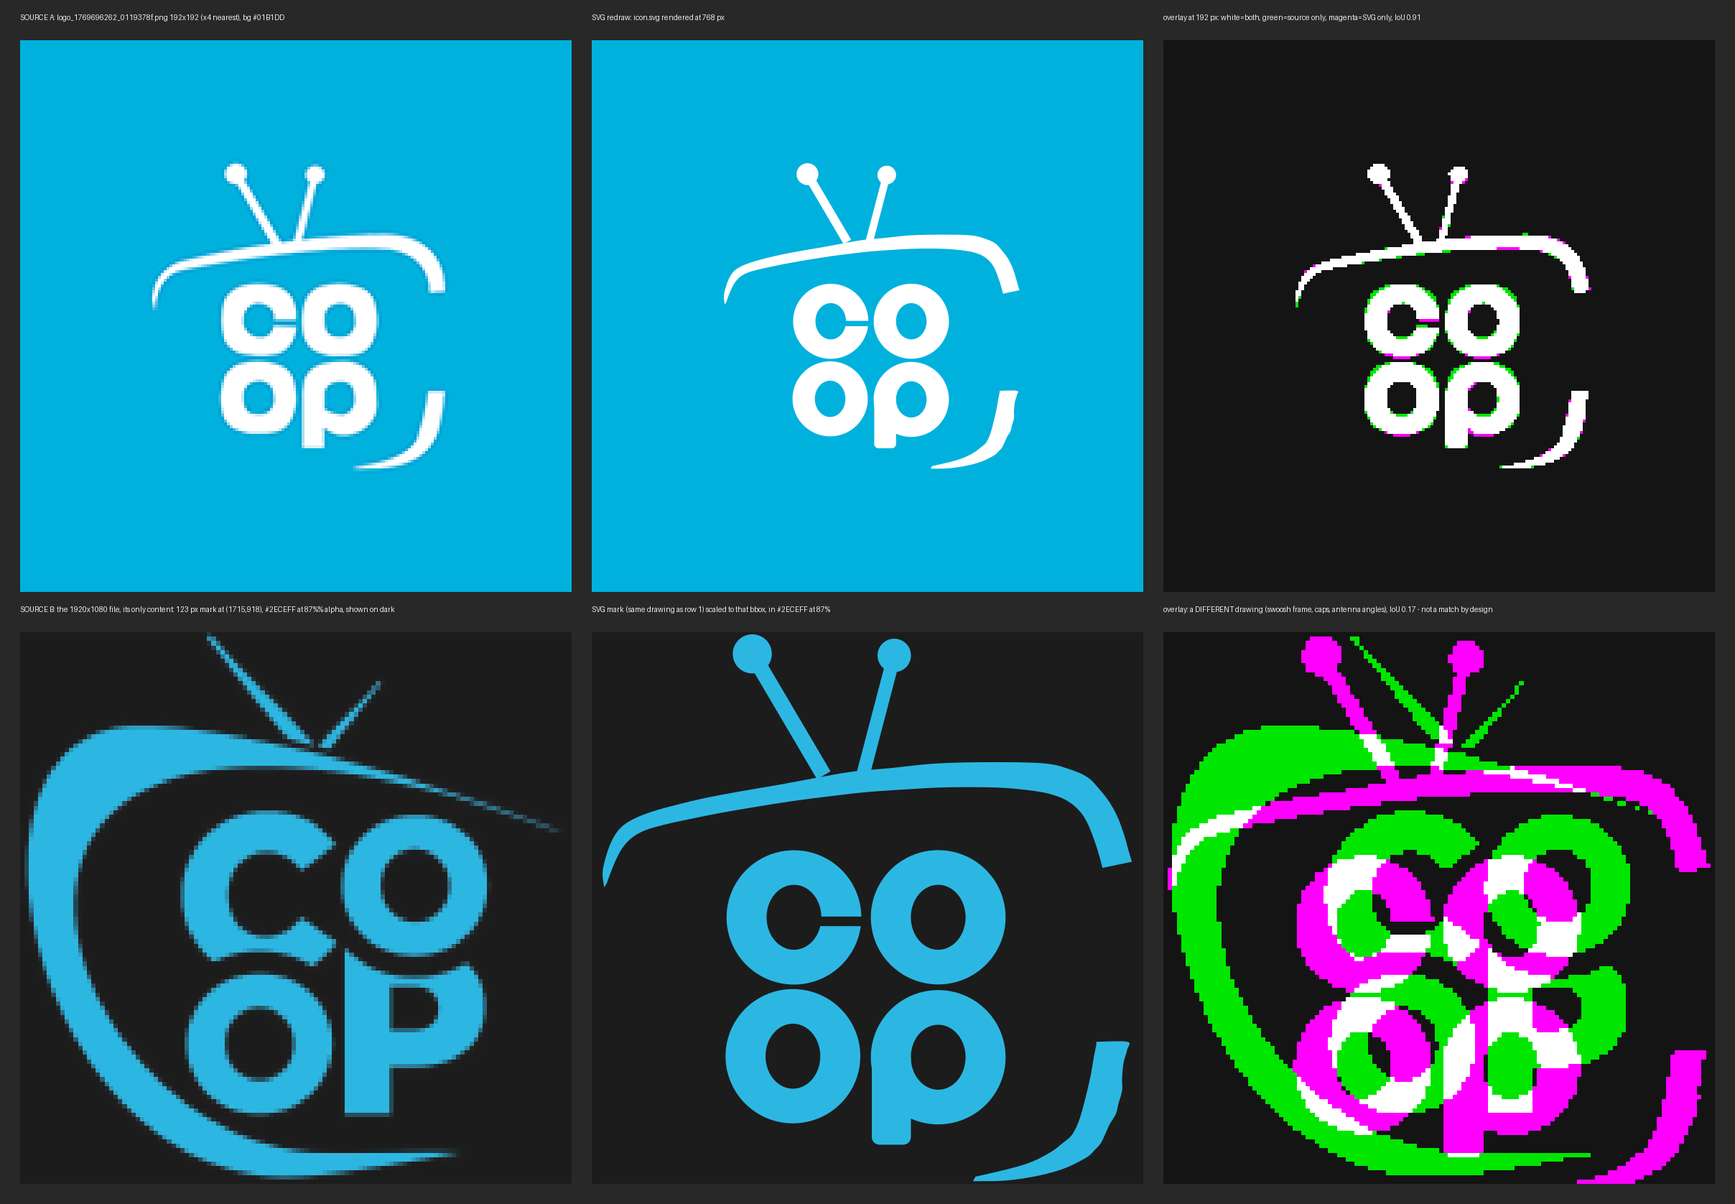
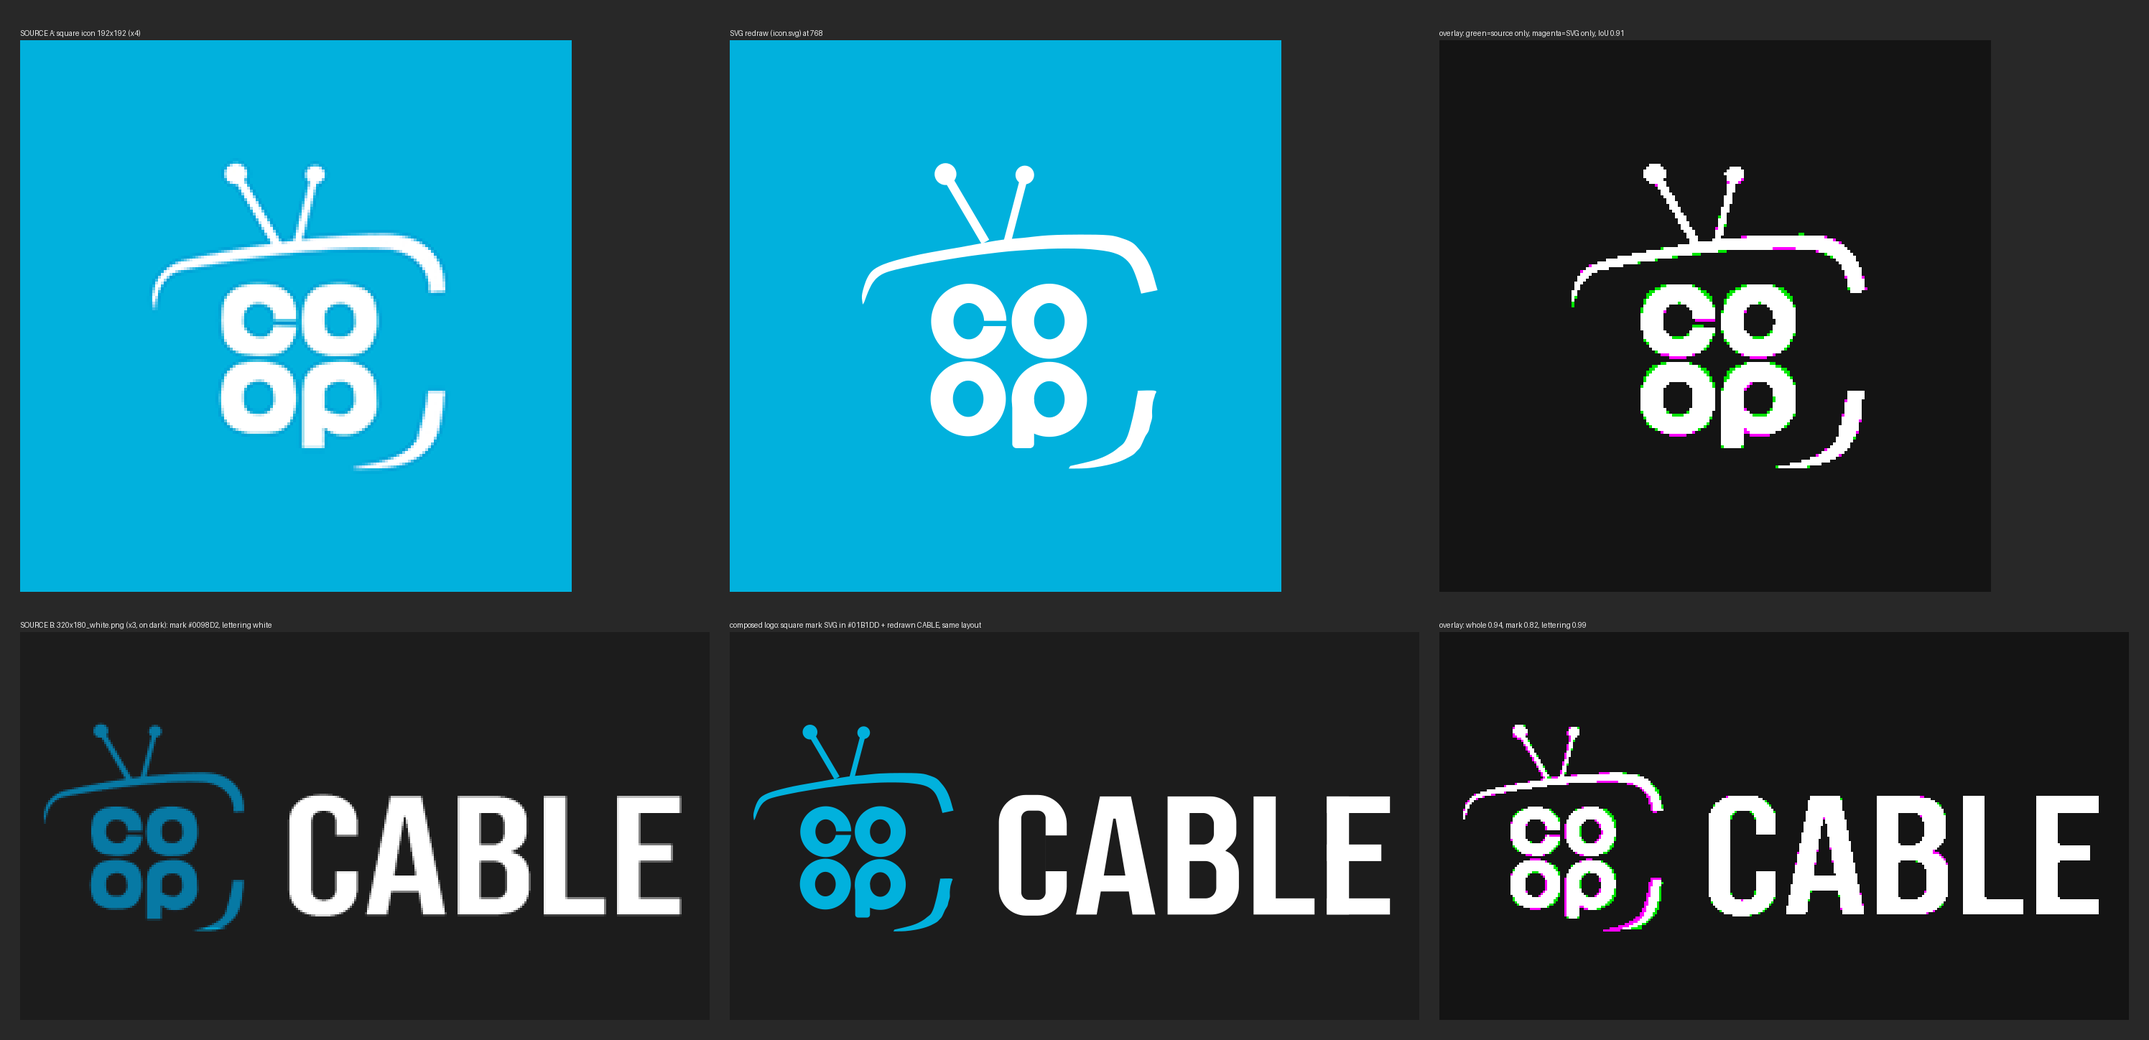
app: coopcable production brand, CABLE lettering redrawn, CI build
New brand app/brands/coopcable (net.caritech.coopcable, "Coop Cable",
primary #01B1DD sampled from the square icon, dark palette of the current
theme, API https://player.caritech.net, HTTPS only, BILLING_UI auto,
legal pages on player.caritech.net). All artwork is rendered from vector
sources: the mark measured from the 192 px icon, the CABLE lettering
measured from the supplied wordmark and rebuilt as paths (no font matched),
composed in the wordmark's layout for logo.png / logo_dark.png, the icon
with the source margins, the adaptive foreground inside the safe circle,
and a splash tile that is seamless on a blue splash screen.

tool/apply_brand.dart gains two optional keys, ICON_BACKGROUND_COLOR and
SPLASH_COLOR (default BACKGROUND_COLOR), so a brand can put its own
colour behind the adaptive icon and the splash. Documented in
WHITE_LABEL.md.

The signing key is generated per brand and kept out of the repo; the
README records alias, subject, fingerprint, retrieval and the CI secret
names. CI builds coopcable as a prod release APK with the other client
brands. Nothing is uploaded to any store.

Claude-Session: https://claude.ai/code/session_01LyHT4QzJGGghnwP1ZDeHK9

diff --git a/app/tool/apply_brand.dart b/app/tool/apply_brand.dart
@@ -12,7 +12,9 @@
 //      LOGO_HAS_NAME (true = the logo carries the brand name, so it is not printed beside it)
 //      logo_dark.png (optional) = logo for dark backgrounds; without it the logo sits on a light plate
 //   4. writes tool/generated/icons.yaml + splash.yaml and runs
-//      flutter_launcher_icons and flutter_native_splash (skip with --no-icons)
+//      flutter_launcher_icons and flutter_native_splash (skip with --no-icons);
+//      ICON_BACKGROUND_COLOR / SPLASH_COLOR (optional) override BACKGROUND_COLOR
+//      for the adaptive icon layer and the splash screen colour
 //   5. sets CFBundleDisplayName in ios/Runner/Info.plist and prints the ATS
 //      snippet for the brand's cleartext hosts
 //
@@ -107,28 +109,29 @@ void main(List<String> args) async {
 
   // 4. icons + splash
   final gen = Directory('$root/tool/generated')..createSync(recursive: true);
-  final bg = _hex(cfg['BACKGROUND_COLOR']!);
+  final iconBg = _hex((cfg['ICON_BACKGROUND_COLOR'] ?? '').trim().isEmpty ? cfg['BACKGROUND_COLOR']! : cfg['ICON_BACKGROUND_COLOR']!);
+  final splashBg = _hex((cfg['SPLASH_COLOR'] ?? '').trim().isEmpty ? cfg['BACKGROUND_COLOR']! : cfg['SPLASH_COLOR']!);
   File('${gen.path}/icons.yaml').writeAsStringSync('''
 flutter_launcher_icons:
   android: true
   ios: true
   remove_alpha_ios: true
   image_path: "assets/branding/icon.png"
-  adaptive_icon_background: "$bg"
+  adaptive_icon_background: "$iconBg"
   adaptive_icon_foreground: "assets/branding/icon_foreground.png"
 ''');
   File('${gen.path}/splash.yaml').writeAsStringSync('''
 flutter_native_splash:
-  color: "$bg"
+  color: "$splashBg"
   image: assets/branding/splash.png
   android_12:
-    color: "$bg"
+    color: "$splashBg"
     image: assets/branding/splash.png
 ''');
   if (!noIcons) {
     await _run(root, ['dart', 'run', 'flutter_launcher_icons', '-f', 'tool/generated/icons.yaml']);
     await _run(root, ['dart', 'run', 'flutter_native_splash:create', '--path=tool/generated/splash.yaml']);
-    stdout.writeln('✓ launcher icons and splash regenerated');
+    stdout.writeln('✓ launcher icons and splash regenerated (icon background $iconBg, splash $splashBg)');
   } else {
     stdout.writeln('· icons/splash skipped (--no-icons)');
   }

diff --git a/app/brands/coopcable/source/gen_wordmark.py b/app/brands/coopcable/source/gen_wordmark.py
@@ -1,0 +1,114 @@
+#!/usr/bin/env python3
+"""Generate the Coop Cable "CABLE" lettering as SVG.
+
+Coordinates are in the 320 x 180 space of the source wordmark
+(320x180_white.png); every value was measured from that file's pixels
+(sub-pixel edges from alpha coverage).  Run: python3 gen_wordmark.py <out-dir>
+"""
+import sys, os
+
+TOP, BASE = 76.3, 131.1            # cap height 54.8
+BAR = 7.7                          # horizontal bar thickness
+
+
+def rrect(x0, y0, x1, y1, rl=0.0, rr=0.0):
+    """Rounded rectangle; rl = radius of the two left corners, rr = right."""
+    return ('M%.2f %.2f H%.2f A%.2f %.2f 0 0 1 %.2f %.2f V%.2f A%.2f %.2f 0 0 1 %.2f %.2f '
+            'H%.2f A%.2f %.2f 0 0 1 %.2f %.2f V%.2f A%.2f %.2f 0 0 1 %.2f %.2f Z') % (
+        x0 + rl, y0, x1 - rr, rr, rr, x1, y0 + rr, y1 - rr, rr, rr, x1 - rr, y1,
+        x0 + rl, rl, rl, x0, y1 - rl, y0 + rl, rl, rl, x0 + rl, y0)
+
+
+def poly(pts):
+    return 'M' + ' L'.join('%.2f %.2f' % p for p in pts) + ' Z'
+
+
+# ---- C: rounded outer, rounded counter, flat aperture on the right ----
+C_OUTER = (124.9, 75.6, 156.4, 131.6, 12.5, 13.5)
+C_INNER = (135.3, 82.9, 146.6, 124.3, 3.5, 3.5)
+C_APERTURE = (135.3, 94.4, 157, 111.0)
+
+# ---- A: flat top, straight legs, flat-cut counter apex ----
+A_OUTER = [(171.8, TOP), (186.2, TOP), (197.5, BASE), (186.9, BASE), (185.2, 120.4),
+           (172.2, 120.4), (170.3, BASE), (160.7, BASE)]
+A_COUNTER = [(178.0, 86.6), (179.1, 86.6), (183.6, 113.0), (173.6, 113.0)]
+
+# ---- B: stem + two bowls; counters with rounded right corners ----
+B_X0, B_STEM = 203.2, 213.4
+B_TOP_BOWL = (B_X0, TOP, 235.1, 101.6, 0, 10.5)     # bottom-right radius handled below
+B_BOT_BOWL = (B_X0, 101.6, 236.3, BASE, 0, 11.5)
+B_WAIST_X = 230.0
+B_C1 = (B_STEM, 84.0, 224.7, 98.6, 0, 5.0)
+B_C2 = (B_STEM, 106.3, 225.8, 123.6, 0, 5.0)
+
+# ---- L ----
+L = [(243.1, TOP), (253.4, TOP), (253.4, 123.6), (271.4, 123.6), (271.4, BASE), (243.1, BASE)]
+
+# ---- E ----
+E_STEM = (277.1, TOP, 287.4, BASE)
+E_BARS = [(277.1, TOP, 306.4, TOP + BAR), (277.1, 98.6, 302.4, 106.3), (277.1, 123.6, 306.4, BASE)]
+
+
+def b_path():
+    """B outline: stem, top bowl, waist, bottom bowl, as one outer path."""
+    x0, y0, xt, yw = B_X0, TOP, 235.1, 101.6
+    xb, y1 = 236.3, BASE
+    return ('M%.2f %.2f H%.2f A12 12 0 0 1 %.2f %.2f V93.0 '
+            'C%.2f 97.5 %.2f 100.0 %.2f %.2f '
+            'C233.0 102.6 %.2f 105.5 %.2f 112.0 V118.1 '
+            'A13 13 0 0 1 %.2f %.2f H%.2f Z') % (
+        x0, y0, xt - 12, xt, y0 + 12,
+        xt, B_WAIST_X + 1.5, B_WAIST_X, yw,
+        xb, xb,
+        xb - 13, y1, x0)
+
+
+def lettering_group(fill):
+    p = ['<g fill="%s" fill-rule="evenodd">' % fill]
+    # C = outer minus inner minus aperture (evenodd on nested paths; aperture via clip rects)
+    p.append('<path d="%s %s"/>' % (rrect(*C_OUTER), rrect(*C_INNER)))
+    p.append('</g><g fill="%s">' % fill)          # cover trick is not needed; carve aperture:
+    p.pop(); p.pop()
+    p = ['<g fill="%s">' % fill]
+    # C: draw as outer-minus-inner with evenodd, then cut the aperture with a mask-free approach:
+    # use two sub-paths (outer, inner) evenodd and a third rect sub-path for the aperture.
+    # The aperture rect overlaps the inner counter, so build it as a polygon that lies
+    # entirely in the ring: x from inner right edge to beyond the outer edge.
+    ax0, ay0, ax1, ay1 = C_APERTURE
+    ap = 'M%.2f %.2f H%.2f V%.2f H%.2f Z' % (C_INNER[2] - 0.01, ay0, ax1, ay1, C_INNER[2] - 0.01)
+    # evenodd: outer(1) + inner(2) + aperture(2) -> ring minus aperture; aperture part outside
+    # the outer shape counts 1 (odd) and would fill, so clip it with clipPath to the outer.
+    p.append('<clipPath id="cclip"><path d="%s"/></clipPath>' % rrect(*C_OUTER))
+    p.append('<path clip-path="url(#cclip)" fill-rule="evenodd" d="%s %s %s"/>' % (
+        rrect(*C_OUTER), rrect(*C_INNER), ap))
+    p.append('<path fill-rule="evenodd" d="%s %s"/>' % (poly(A_OUTER), poly(A_COUNTER)))
+    p.append('<path fill-rule="evenodd" d="%s %s %s"/>' % (b_path(), rrect(*B_C1), rrect(*B_C2)))
+    p.append('<path d="%s"/>' % poly(L))
+    p.append('<rect x="%.2f" y="%.2f" width="%.2f" height="%.2f"/>' % (
+        E_STEM[0], E_STEM[1], E_STEM[2] - E_STEM[0], E_STEM[3] - E_STEM[1]))
+    for (x0, y0, x1, y1) in E_BARS:
+        p.append('<rect x="%.2f" y="%.2f" width="%.2f" height="%.2f"/>' % (x0, y0, x1 - x0, y1 - y0))
+    p.append('</g>')
+    return '\n'.join(p)
+
+
+LETTER_BOX = (124, 75, 184, 58)   # x, y, w, h in the 320 space, 1 px air
+
+
+def svg(viewbox, w, h, body):
+    return ('<svg xmlns="http://www.w3.org/2000/svg" viewBox="%s" width="%d" height="%d">\n%s\n</svg>\n'
+            % (viewbox, w, h, body))
+
+
+def main(out):
+    os.makedirs(out, exist_ok=True)
+    vb = '%d %d %d %d' % LETTER_BOX
+    for name, fill in (('lettering-white.svg', '#FFFFFF'), ('lettering-blue.svg', '#01B1DD'),
+                       ('lettering-black.svg', '#000000')):
+        with open(os.path.join(out, name), 'w') as f:
+            f.write(svg(vb, LETTER_BOX[2] * 4, LETTER_BOX[3] * 4, lettering_group(fill)))
+    print('wrote', out)
+
+
+if __name__ == '__main__':
+    main(sys.argv[1] if len(sys.argv) > 1 else '.')

diff --git a/app/brands/coopcable/source/gen_assets.py b/app/brands/coopcable/source/gen_assets.py
@@ -1,0 +1,103 @@
+#!/usr/bin/env python3
+"""Render every coopcable brand PNG from the SVG generators.
+
+Run from this folder:  python3 gen_assets.py
+Needs: pillow, numpy, cairosvg.
+Writes ../icon.png, ../icon_foreground.png, ../splash.png, ../logo.png,
+../logo_dark.png, and the SVG files next to this script.
+"""
+import io, math, os
+import cairosvg, numpy as np
+from PIL import Image, ImageDraw
+import gen_mark, gen_wordmark
+
+HERE = os.path.dirname(os.path.abspath(__file__))
+BRAND = os.path.dirname(HERE)
+BLUE = gen_mark.BLUE                 # #01B1DD, sampled from the square icon
+DARK = '#0F172A'                     # lettering on light backgrounds (= BACKGROUND_COLOR)
+WHITE = '#FFFFFF'
+
+# mark extents inside gen_mark's 192 space (measured on the rendered path)
+MARK_X0, MARK_Y0, MARK_W, MARK_H = 46.0, 42.8, 103.0, 106.4
+
+
+def svg(viewbox, w, h, body):
+    return ('<svg xmlns="http://www.w3.org/2000/svg" viewBox="%s" width="%d" height="%d">\n%s\n</svg>\n'
+            % (viewbox, w, h, body))
+
+
+def png(svg_text, w, h):
+    data = cairosvg.svg2png(bytestring=svg_text.encode(), output_width=w, output_height=h)
+    return Image.open(io.BytesIO(data)).convert('RGBA')
+
+
+def mark_at(fill, x, y, height):
+    """The mark, translated so its bbox top-left is (x, y) and scaled to `height`."""
+    s = height / MARK_H
+    return '<g transform="translate(%.3f %.3f) scale(%.5f) translate(%.3f %.3f)">%s</g>' % (
+        x, y, s, -MARK_X0, -MARK_Y0, gen_mark.mark_group(fill))
+
+
+def lettering_at(fill, x, y, cap_height):
+    """CABLE, translated so its cap-top-left is (x, y), scaled to `cap_height`."""
+    s = cap_height / (gen_wordmark.BASE - gen_wordmark.TOP)
+    return '<g transform="translate(%.3f %.3f) scale(%.5f) translate(%.3f %.3f)">%s</g>' % (
+        x, y, s, -124.9, -gen_wordmark.TOP, gen_wordmark.lettering_group(fill))
+
+
+def enclosing_radius(img):
+    """Radius of the smallest circle about the canvas centre that holds all opaque pixels."""
+    a = np.array(img.getchannel('A')) > 8
+    ys, xs = np.where(a); cx, cy = (img.width - 1) / 2, (img.height - 1) / 2
+    return math.sqrt(((xs - cx) ** 2 + (ys - cy) ** 2).max())
+
+
+def main():
+    out = {}
+    # --- wordmark layout (measured from 320x180_white.png): mark bbox 94x96 at (11,43),
+    #     lettering cap height 54.8 at x 124.9, top 76.3; gap mark->lettering 21 px ---
+    LW, LH = 1800, 600     # logo canvas (6x the source wordmark's content box + air)
+    S = 6.0
+    body = lambda letter_fill: mark_at(BLUE, 3, 3, 96.0) + lettering_at(
+        letter_fill, 3 + 93.0 + 21.0, 3 + (76.3 - 43.0), 54.8)
+    logo_dark = svg('0 0 %d %d' % (LW / S, LH / S), LW, LH, body(WHITE))
+    logo_light = svg('0 0 %d %d' % (LW / S, LH / S), LW, LH, body(DARK))
+    for name, text in (('logo_dark', logo_dark), ('logo', logo_light)):
+        with open(os.path.join(HERE, name + '.svg'), 'w') as f:
+            f.write(text)
+        im = png(text, LW, LH)
+        bbox = im.getbbox(); pad = 12
+        im = im.crop((max(0, bbox[0] - pad), max(0, bbox[1] - pad), min(LW, bbox[2] + pad), min(LH, bbox[3] + pad)))
+        im.save(os.path.join(BRAND, name + '.png'), optimize=True); out[name] = im.size
+
+    # --- icon.png: the square source at 1024 (mark 54% of the width, margins as supplied) ---
+    icon = png(svg('0 0 192 192', 1024, 1024,
+                   '<rect width="192" height="192" fill="%s"/>%s' % (BLUE, gen_mark.mark_group(WHITE))), 1024, 1024)
+    icon.convert('RGB').save(os.path.join(BRAND, 'icon.png'), optimize=True); out['icon'] = icon.size
+
+    # --- icon_foreground.png: white mark only, transparent, inside the adaptive safe circle
+    #     (66/108 of the canvas = 626 px diameter at 1024) with 4% air ---
+    safe_r = 1024 * 66 / 108 / 2 * 0.96
+    h = 560.0
+    for _ in range(6):   # scale so the mark's enclosing circle (about the canvas centre) fits
+        fg = png(svg('0 0 1024 1024', 1024, 1024, mark_at(WHITE, (1024 - h * MARK_W / MARK_H) / 2, (1024 - h) / 2, h)), 1024, 1024)
+        r = enclosing_radius(fg)
+        if abs(r - safe_r) < 1.0:
+            break
+        h *= safe_r / r
+    fg.save(os.path.join(BRAND, 'icon_foreground.png'), optimize=True)
+    out['icon_foreground'] = (fg.size, 'mark height %d px, enclosing radius %d px, safe radius %d px' % (h, r, safe_r))
+
+    # --- splash.png: white mark centred on the brand blue (1024 square; the splash
+    #     colour is the same blue, so the tile is seamless full-screen) ---
+    sh = 520.0
+    sp = png(svg('0 0 1024 1024', 1024, 1024, '<rect width="1024" height="1024" fill="%s"/>%s' % (
+        BLUE, mark_at(WHITE, (1024 - sh * MARK_W / MARK_H) / 2, (1024 - sh) / 2, sh))), 1024, 1024)
+    sp.save(os.path.join(BRAND, 'splash.png'), optimize=True); out['splash'] = sp.size
+
+    for k, v in out.items():
+        print('%-16s %s' % (k, v))
+
+
+if __name__ == '__main__':
+    main()

diff --git a/app/brands/coopcable/README.md b/app/brands/coopcable/README.md
@@ -1,0 +1,40 @@
+# Coop Cable (`coopcable`) — production brand
+
+Application id `net.caritech.coopcable`, label "Coop Cable", API `https://player.caritech.net` (dev and prod), HTTPS only, `BILLING_UI` auto, legal pages on `player.caritech.net`. Primary colour `#01B1DD`, sampled from the square icon (85% of its pixels); the dark palette is the current theme (`#0F172A` / `#1E293B`, accent `#22C55E`).
+
+## Artwork
+
+Every PNG is rendered from vector sources in `source/`, so any size can be regenerated (`cd source && python3 gen_assets.py`; needs pillow, numpy, cairosvg).
+
+| File | Content |
+|---|---|
+| `source/gen_mark.py` → `mark-*.svg`, `icon.svg` | The TV mark, measured sub-pixel from the supplied 192×192 icon (`logo_1769696262_0119378f.png`) and rebuilt as paths. Overlap with the source 0.91 at 192 px; the rest is edge antialiasing. |
+| `source/gen_wordmark.py` → `lettering-*.svg` | "CABLE", measured from the supplied `320x180_white.png` and rebuilt as paths (overlap 0.99). No font is used: none of the open condensed faces tried (Anton, Bebas Neue, League Gothic, Oswald, Fjalla One, Antonio, Six Caps, Pathway Gothic One) matched. |
+| `source/gen_assets.py` → `logo*.svg` and the PNGs | Composition and rendering. |
+| `source/comparison.png` | Side-by-side of the redraws against both supplied files. |
+| `icon.png` 1024² | White mark on `#01B1DD`, margins as in the square source (mark 54% of the width). |
+| `icon_foreground.png` 1024², transparent | White mark only, scaled so its enclosing circle sits 4% inside the adaptive safe circle (66/108). Adaptive background `ICON_BACKGROUND_COLOR` = `#01B1DD`. |
+| `splash.png` 1024² | White mark centred on `#01B1DD`; `SPLASH_COLOR` is the same blue, so the splash is a seamless white mark on blue. |
+| `logo_dark.png` 1795×594 | Mark in `#01B1DD` + white CABLE, the supplied wordmark's layout (mark 96 : cap height 54.8 : gap 21). Used on the app's dark screens. |
+| `logo.png` 1795×594 | Same with CABLE in `#0F172A` for light backgrounds. |
+
+The square drawing of the mark is used everywhere. The supplied wordmark carries the same drawing in a darker blue (`#0098D2`); the icon blue `#01B1DD` wins, per the brand decision of 2026-10-03.
+
+`LOGO_HAS_NAME` is true: the wordmark says CABLE, so the app prints no name beside it.
+
+Build: `./tool/build_brand.sh coopcable apk prod` (release-signed when `key.properties` is present). CI builds the prod release APK on every push (`EXTRA_BRANDS` in `.github/workflows/android-debug.yml`) and attaches it to the `dev-<sha>` prerelease. Nothing is uploaded to any store.
+
+## Signing key (not in the repo)
+
+| | |
+|---|---|
+| Keystore | `app/brands/coopcable/upload-keystore.jks` (PKCS12, gitignored) |
+| Alias | `coopcable` |
+| Passwords | in `app/brands/coopcable/key.properties` (gitignored; `storePassword` = `keyPassword`) |
+| Subject | `CN=Coop Cable, O=Coop Cable, C=TT` |
+| Validity | 10 000 days from 2026-10-03 |
+| Certificate SHA-256 | `1C:84:0D:63:C9:A6:CA:4C:FE:3C:1E:01:0A:17:D1:10:42:90:77:EC:D1:C9:1E:23:B8:0F:FB:20:0B:B0:4F:07` |
+
+The key was generated in the build container and handed over as two files in the chat. The container is ephemeral: keep both files in the password manager / vault and put them back under `app/brands/coopcable/` on any machine that must produce a release-signed build. Losing them means losing the ability to update this brand once published (enable Play App Signing on the listing to limit the damage).
+
+CI signing: add repository secrets `COOPCABLE_KEYSTORE_BASE64` (`base64 -w0 upload-keystore.jks`) and `COOPCABLE_KEY_PROPERTIES` (the four lines of `key.properties`). Without them the workflow builds the coopcable APK debug-signed and says so in `SIGNING.txt` on the release.

diff --git a/app/docs/WHITE_LABEL.md b/app/docs/WHITE_LABEL.md
@@ -9,7 +9,8 @@ The app is brand-agnostic. Everything that identifies a brand is a **build-time 
 | Application id (Android) / bundle id (iOS) | `brand.json` → `APPLICATION_ID` | `android/brand.properties` (generated) → Gradle `applicationId`; iOS: set in Xcode (see below) |
 | Display / launcher name | `APP_NAME` | Gradle `resValue app_name` (dev flavour appends " Dev"); iOS `CFBundleDisplayName` (written by the tool); in-app via dart-define |
 | Logo, launcher icon, adaptive foreground, splash | `logo.png` (512²), `icon.png` (1024²), `icon_foreground.png` (1024², transparent), `splash.png` (512²) | copied to `assets/branding/`; icons and splash regenerated with flutter_launcher_icons / flutter_native_splash |
-| Colours | `PRIMARY_COLOR`, `ACCENT_COLOR`, `BACKGROUND_COLOR`, `SURFACE_COLOR` (`#RRGGBB`) | dart-define → `AppConfig` → theme; background also used for the adaptive icon and splash |
+| Colours | `PRIMARY_COLOR`, `ACCENT_COLOR`, `BACKGROUND_COLOR`, `SURFACE_COLOR` (`#RRGGBB`) | dart-define → `AppConfig` → theme; background also used for the adaptive icon layer and the splash screen unless overridden |
+| Icon / splash colour | optional `ICON_BACKGROUND_COLOR`, `SPLASH_COLOR` (`#RRGGBB`, default = `BACKGROUND_COLOR`) | tool only: adaptive icon background layer behind `icon_foreground.png`; splash screen colour behind `splash.png` (use the brand colour when the splash image is a tile of that colour, so it is seamless full-screen) |
 | API base URL | `API_BASE_URL_DEV`, `API_BASE_URL_PROD` (site origin, no path) | dart-define; the API is at `/api/v1` |
 | Legal pages | `PRIVACY_URL`, `TERMS_URL`, `DELETE_ACCOUNT_URL` | dart-define; opened in the browser from login, register, settings |
 | Analytics/ads platform tag | `PLATFORM_TAG_PROD` (default `mobile`; dev builds send `<tag>-dev`) | dart-define |
@@ -24,7 +25,7 @@ Shared across brands: all code, the Android `namespace` (`net.caritech.caritv`, 
 ## Add a brand
 
 1. Copy a brand folder: `cp -r brands/islandtv brands/<newbrand>`.
-2. Edit `brands/<newbrand>/brand.json`. Required keys: `BRAND_KEY`, `APP_NAME`, `APPLICATION_ID`, `API_BASE_URL_DEV`, `API_BASE_URL_PROD`, the four colours, the three legal URLs. Optional: `PLATFORM_TAG_PROD`, `CLEARTEXT_HOSTS`, `BILLING_UI` (`auto` / `on` / `off`), `LOGO_HAS_NAME` (`true` / `false`; see the table; the tool rejects other values), and a `logo_dark.png` file next to `logo.png`.
+2. Edit `brands/<newbrand>/brand.json`. Required keys: `BRAND_KEY`, `APP_NAME`, `APPLICATION_ID`, `API_BASE_URL_DEV`, `API_BASE_URL_PROD`, the four colours, the three legal URLs. Optional: `PLATFORM_TAG_PROD`, `CLEARTEXT_HOSTS`, `BILLING_UI` (`auto` / `on` / `off`), `LOGO_HAS_NAME` (`true` / `false`; see the table; the tool rejects other values), `ICON_BACKGROUND_COLOR`, `SPLASH_COLOR`, and a `logo_dark.png` file next to `logo.png`.
    - `APPLICATION_ID` must be reverse-DNS the operator controls (e.g. `com.operator.tv`). **It cannot change after the first Play/App Store upload.**
 3. Replace the four PNGs with the operator's artwork (add `logo_dark.png` if the wordmark has dark lettering; otherwise the app plates the logo) (same sizes; the icon must not rely on transparency, the foreground must be transparent outside the glyph).
 4. Create the brand's signing key (see below).
